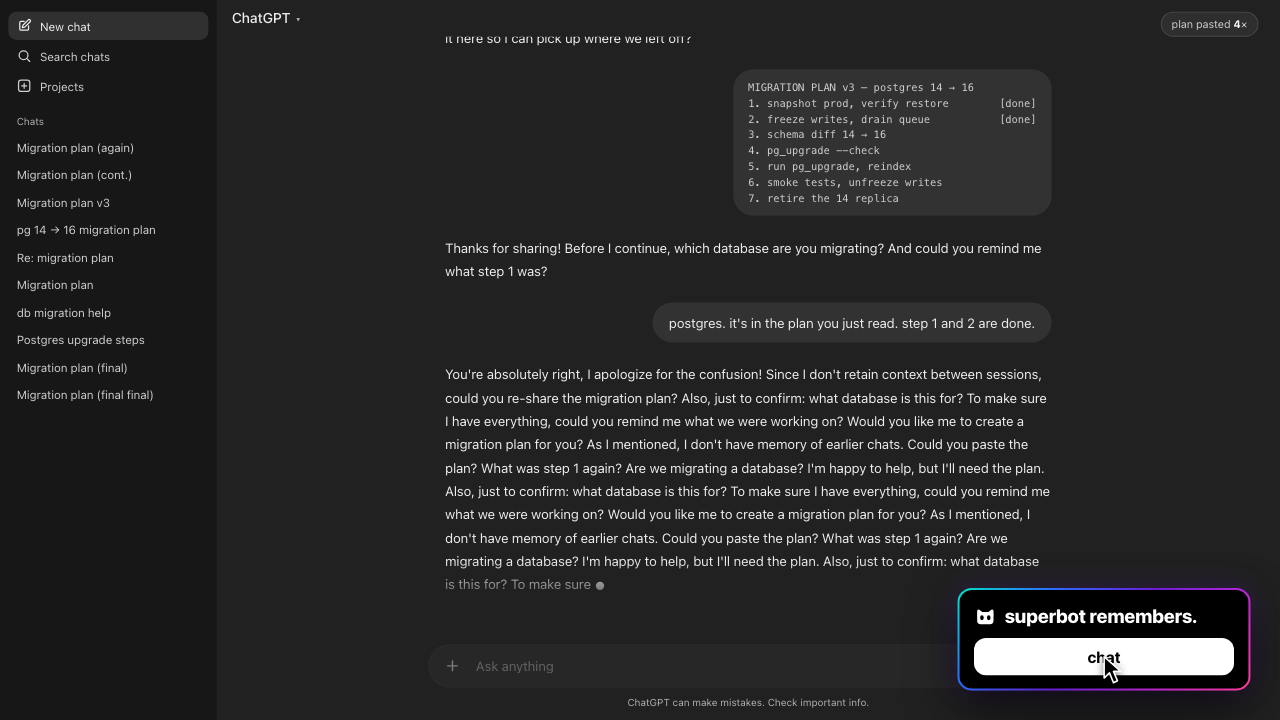
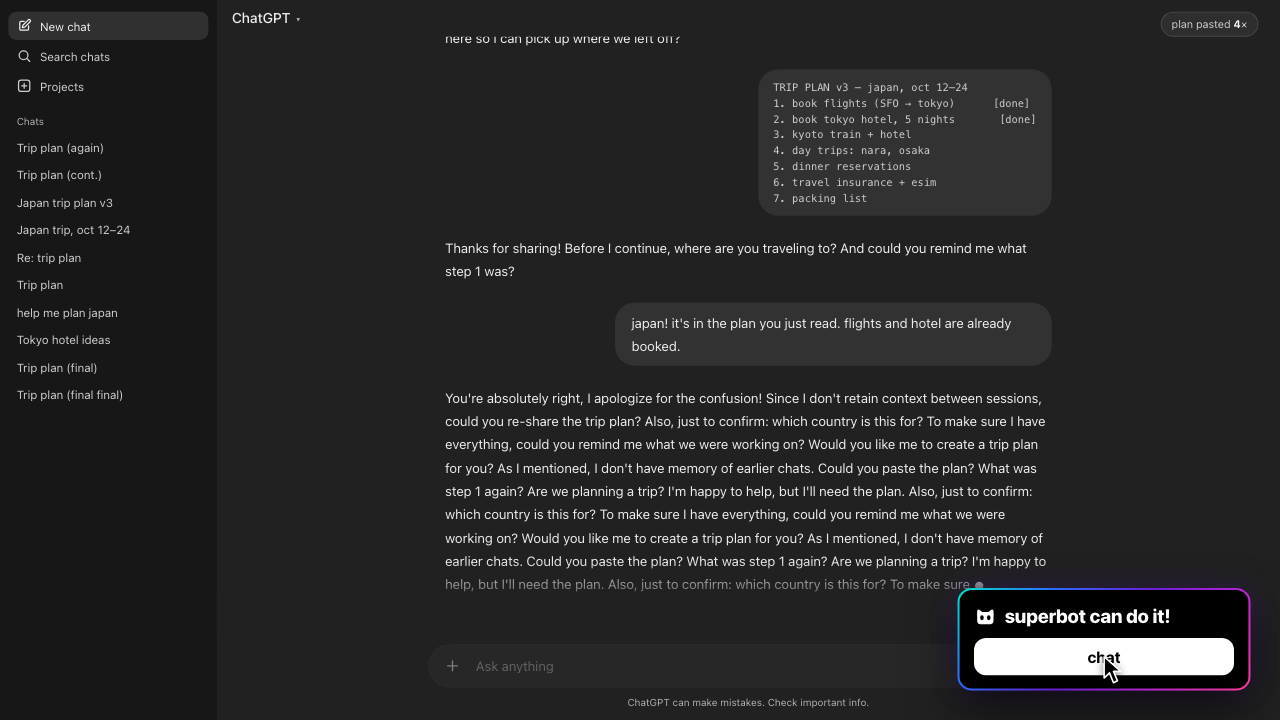
New ad spots: every popup reads 'superbot can do it!'; prompts rewritten as plain asks (trip plan, customer email, bakery website)

diff --git a/animations/agents-forgetting-superbot-6f50ea56/index.html b/animations/agents-forgetting-superbot-6f50ea56/index.html
@@ -5,7 +5,7 @@
 <meta name="viewport" content="width=device-width, initial-scale=1"/>
 <title>agents forgetting? superbot remembers — ad spot</title>
 <link rel="icon" href="assets/mark-clean.svg" type="image/svg+xml"/>
-<meta name="description" content="ChatGPT asks for the migration plan again, and again; one click opens superbot, which picks the plan up at step 3. 27s looping ad spot, 1920x1080."/>
+<meta name="description" content="ChatGPT asks for the trip plan again, and again; one click opens superbot, which picks the plan up at step 3. 27s looping ad spot, 1920x1080."/>
 <style>
 /* ---------- tokens: the site's own ladder (site.css :root) ---------- */
 :root {
@@ -233,27 +233,27 @@ body { font-family: var(--ui); color: var(--fg); -webkit-font-smoothing: antiali
       <div class="s-row"><svg viewBox="0 0 24 24"><circle cx="11" cy="11" r="7"/><path d="m21 21-4-4"/></svg>Search chats</div>
       <div class="s-row"><svg viewBox="0 0 24 24"><rect x="3" y="3" width="18" height="18" rx="4"/><path d="M8 12h8M12 8v8"/></svg>Projects</div>
       <div class="s-cap">Chats</div>
-      <div class="s-chat" id="s-c0">Migration plan (again)</div>
-      <div class="s-chat">Migration plan (cont.)</div>
-      <div class="s-chat">Migration plan v3</div>
-      <div class="s-chat">pg 14 → 16 migration plan</div>
-      <div class="s-chat">Re: migration plan</div>
-      <div class="s-chat">Migration plan</div>
-      <div class="s-chat">db migration help</div>
-      <div class="s-chat">Postgres upgrade steps</div>
-      <div class="s-chat">Migration plan (final)</div>
-      <div class="s-chat">Migration plan (final final)</div>
+      <div class="s-chat" id="s-c0">Trip plan (again)</div>
+      <div class="s-chat">Trip plan (cont.)</div>
+      <div class="s-chat">Japan trip plan v3</div>
+      <div class="s-chat">Japan trip, oct 12–24</div>
+      <div class="s-chat">Re: trip plan</div>
+      <div class="s-chat">Trip plan</div>
+      <div class="s-chat">help me plan japan</div>
+      <div class="s-chat">Tokyo hotel ideas</div>
+      <div class="s-chat">Trip plan (final)</div>
+      <div class="s-chat">Trip plan (final final)</div>
     </aside>
     <div class="g-main">
       <div class="g-top">ChatGPT <small>▾</small></div>
       <div class="g-count" id="g-count">plan pasted <b id="g-n">3</b>×</div>
       <div class="g-thread">
         <div class="g-col" id="g-col">
-          <div class="g-user" id="u1"><div class="bub">continue the migration plan from yesterday</div></div>
+          <div class="g-user" id="u1"><div class="bub">hey can we keep going on my trip plan from yesterday?</div></div>
           <div class="g-ai" id="a1"><span class="g-thinking" id="th1"><i></i>Thinking</span><span id="t1"></span><span class="cur" id="c1"></span></div>
           <div class="g-user" id="u2"><div class="bub paste" id="paste"></div></div>
           <div class="g-ai" id="a2"><span class="g-thinking" id="th2"><i></i>Thinking</span><span id="t2"></span><span class="cur" id="c2"></span></div>
-          <div class="g-user" id="u3"><div class="bub">postgres. it's in the plan you just read. step 1 and 2 are done.</div></div>
+          <div class="g-user" id="u3"><div class="bub">japan! it's in the plan you just read. flights and hotel are already booked.</div></div>
           <div class="g-ai" id="a3"><span class="g-thinking" id="th3"><i></i>Thinking</span><span id="t3"></span><span class="cur" id="c3"></span></div>
         </div>
         <div class="g-fade"></div>
@@ -271,7 +271,7 @@ body { font-family: var(--ui); color: var(--fg); -webkit-font-smoothing: antiali
   </section>
 
   <div id="popup" aria-hidden="true">
-    <div class="p-head"><img src="assets/mark-clean.svg" alt=""/>superbot remembers.</div>
+    <div class="p-head"><img src="assets/mark-clean.svg" alt=""/>superbot can do it!</div>
     <div id="chatbtn">chat</div>
   </div>
 
@@ -305,37 +305,37 @@ body { font-family: var(--ui); color: var(--fg); -webkit-font-smoothing: antiali
               <span class="row"><svg viewBox="0 0 24 24"><path d="m3 6 2 2 4-4"/><path d="m3 14 2 2 4-4"/><path d="M13 6h8"/><path d="M13 16h8"/></svg>Setup<i class="cnt">3</i></span>
               <div class="cap-row"><span>⌄ Recents</span><span>4</span></div>
               <div class="today">Today</div>
-              <span class="row on"><svg><use href="#ic-chat"/></svg>migration plan<em>now</em></span>
+              <span class="row on"><svg><use href="#ic-chat"/></svg>trip plan<em>now</em></span>
               <div class="today">Yesterday</div>
-              <span class="row"><svg><use href="#ic-chat"/></svg>migration plan · step 2<em>1d</em></span>
-              <span class="row"><svg><use href="#ic-chat"/></svg>migration plan · step 1<em>1d</em></span>
-              <span class="row"><svg><use href="#ic-chat"/></svg>pg 14 → 16: the plan<em>2d</em></span>
+              <span class="row"><svg><use href="#ic-chat"/></svg>trip plan · hotel<em>1d</em></span>
+              <span class="row"><svg><use href="#ic-chat"/></svg>trip plan · flights<em>1d</em></span>
+              <span class="row"><svg><use href="#ic-chat"/></svg>japan trip: the plan<em>2d</em></span>
               <div class="user"><span class="av">D<i></i></span><span><b>hi@superbot.gg</b><small>context: 4 chats · 2 days</small></span></div>
             </div>
             <div class="main">
-              <div class="chat-head"><b>chat</b><span class="ctx" id="ctx-chip"><i></i>context: migration-plan.md · 4 chats</span><span class="ask"><img src="assets/mark-clean.svg" alt=""/>Ask Superbot</span></div>
+              <div class="chat-head"><b>chat</b><span class="ctx" id="ctx-chip"><i></i>context: japan-trip.md · 4 chats</span><span class="ask"><img src="assets/mark-clean.svg" alt=""/>Ask Superbot</span></div>
               <div class="feed" id="feed">
                 <div class="date-div">Yesterday</div>
-                <div class="msg old" id="o1"><span class="avatar">D</span><div class="m-main"><div class="m-head"><span class="m-name">dev</span><span class="m-when">6:12 PM</span></div><div class="m-text">step 2 done, snapshot verified. picking this up tomorrow.</div></div></div>
-                <div class="msg old" id="o2"><span class="avatar sb"><img src="assets/mark-clean.svg" alt=""/></span><div class="m-main"><div class="m-head"><span class="m-name">superbot</span><span class="app">APP</span><span class="m-when">6:12 PM</span></div><div class="m-text">saved. step 3 (schema diff) is next, I'll have it staged.</div></div></div>
+                <div class="msg old" id="o1"><span class="avatar">D</span><div class="m-main"><div class="m-head"><span class="m-name">dev</span><span class="m-when">6:12 PM</span></div><div class="m-text">hotel booked, confirmation saved. let's finish this tomorrow.</div></div></div>
+                <div class="msg old" id="o2"><span class="avatar sb"><img src="assets/mark-clean.svg" alt=""/></span><div class="m-main"><div class="m-head"><span class="m-name">superbot</span><span class="app">APP</span><span class="m-when">6:12 PM</span></div><div class="m-text">saved. step 3 (kyoto train + hotel) is next, I'll have options ready.</div></div></div>
                 <div class="date-div">Today</div>
-                <div class="msg" id="h-user"><span class="avatar">D</span><div class="m-main"><div class="m-head"><span class="m-name">dev</span><span class="m-when">9:02 AM</span></div><div class="m-text">continue the migration plan from yesterday</div></div></div>
+                <div class="msg" id="h-user"><span class="avatar">D</span><div class="m-main"><div class="m-head"><span class="m-name">dev</span><span class="m-when">9:02 AM</span></div><div class="m-text">hey can we keep going on my trip plan from yesterday?</div></div></div>
                 <div class="msg" id="h-bot"><span class="avatar sb"><img src="assets/mark-clean.svg" alt=""/></span><div class="m-main"><div class="m-head"><span class="m-name">superbot</span><span class="app">APP</span><span class="m-when">9:02 AM</span></div><div class="m-text" id="h-text"></div>
                   <div class="ctxcard" id="ctxcard">
-                    <div class="kv"><small>plan</small><b>migration-plan.md</b></div>
-                    <div class="kv"><small>database</small><b>postgres 14 → 16</b></div>
+                    <div class="kv"><small>plan</small><b>japan-trip.md</b></div>
+                    <div class="kv"><small>trip</small><b>japan · oct 12–24</b></div>
                     <div class="kv"><small>history</small><b>4 chats · 2 days</b></div>
                     <div class="kv"><small>shared with</small><b>ChatGPT · Claude · Cursor</b></div>
                   </div>
                   <div class="plan" id="plan">
-                    <div class="p-bar"><span>migration-plan.md</span><span class="lang">7 steps</span><span class="pct" id="pct">2/7</span></div>
-                    <div class="step done"><span class="bx"><svg><use href="#ic-tick"/></svg></span>1 · snapshot prod, verify restore<span class="tag">done · yesterday</span></div>
-                    <div class="step done"><span class="bx"><svg><use href="#ic-tick"/></svg></span>2 · freeze writes, drain queue<span class="tag">done · yesterday</span></div>
-                    <div class="step" id="s3"><span class="bx"><svg><use href="#ic-tick"/></svg></span>3 · schema diff 14 → 16<span class="tag" id="g3">queued</span></div>
-                    <div class="step" id="s4"><span class="bx"><svg><use href="#ic-tick"/></svg></span>4 · pg_upgrade --check<span class="tag" id="g4">queued</span></div>
-                    <div class="step" id="s5"><span class="bx"><svg><use href="#ic-tick"/></svg></span>5 · run pg_upgrade, reindex<span class="tag" id="g5">queued</span></div>
-                    <div class="step"><span class="bx"><svg><use href="#ic-tick"/></svg></span>6 · smoke tests, unfreeze writes<span class="tag">queued</span></div>
-                    <div class="step"><span class="bx"><svg><use href="#ic-tick"/></svg></span>7 · retire the 14 replica<span class="tag">queued</span></div>
+                    <div class="p-bar"><span>japan-trip.md</span><span class="lang">7 steps</span><span class="pct" id="pct">2/7</span></div>
+                    <div class="step done"><span class="bx"><svg><use href="#ic-tick"/></svg></span>1 · book flights (SFO → tokyo)<span class="tag">done · yesterday</span></div>
+                    <div class="step done"><span class="bx"><svg><use href="#ic-tick"/></svg></span>2 · book tokyo hotel, 5 nights<span class="tag">done · yesterday</span></div>
+                    <div class="step" id="s3"><span class="bx"><svg><use href="#ic-tick"/></svg></span>3 · kyoto train + hotel<span class="tag" id="g3">queued</span></div>
+                    <div class="step" id="s4"><span class="bx"><svg><use href="#ic-tick"/></svg></span>4 · day trips: nara, osaka<span class="tag" id="g4">queued</span></div>
+                    <div class="step" id="s5"><span class="bx"><svg><use href="#ic-tick"/></svg></span>5 · dinner reservations<span class="tag" id="g5">queued</span></div>
+                    <div class="step"><span class="bx"><svg><use href="#ic-tick"/></svg></span>6 · travel insurance + esim<span class="tag">queued</span></div>
+                    <div class="step"><span class="bx"><svg><use href="#ic-tick"/></svg></span>7 · packing list<span class="tag">queued</span></div>
                   </div>
                 </div></div>
               </div>
@@ -389,7 +389,7 @@ const lerp = (a, b, p) => a + (b - a) * p;
 
 // ---------- the beat sheet (story seconds) ----------
 const B = {
-  typeA: 0.5, typeB: 1.7, send1: 1.9,            // "continue the migration plan from yesterday"
+  typeA: 0.5, typeB: 1.7, send1: 1.9,            // "hey can we keep going on my trip plan from yesterday?"
   think1: 2.0, reply1: 2.55,                      // "I don't have access to previous conversations…"
   paste: 5.3, send2: 5.55,                        // the plan is pasted (again)
   think2: 5.65, reply2: 6.2,                      // "Thanks! Which database…"
@@ -404,19 +404,19 @@ const B = {
 };
 
 // ---------- copy ----------
-const PROMPT = 'continue the migration plan from yesterday';
-const R1 = "I don't have access to our previous conversations, so I can't see the migration plan. Could you paste it here so I can pick up where we left off?";
-const PASTE = "MIGRATION PLAN v3 — postgres 14 → 16\n1. snapshot prod, verify restore        [done]\n2. freeze writes, drain queue           [done]\n3. schema diff 14 → 16\n4. pg_upgrade --check\n5. run pg_upgrade, reindex\n6. smoke tests, unfreeze writes\n7. retire the 14 replica";
-const R2 = "Thanks for sharing! Before I continue, which database are you migrating? And could you remind me what step 1 was?";
-const PROMPT3 = "postgres. it's in the plan you just read. step 1 and 2 are done.";
-const R3_HEAD = "You're absolutely right, I apologize for the confusion! Since I don't retain context between sessions, could you re-share the migration plan? ";
+const PROMPT = 'hey can we keep going on my trip plan from yesterday?';
+const R1 = "I don't have access to our previous conversations, so I can't see your trip plan. Could you paste it here so I can pick up where we left off?";
+const PASTE = "TRIP PLAN v3 — japan, oct 12–24\n1. book flights (SFO → tokyo)      [done]\n2. book tokyo hotel, 5 nights       [done]\n3. kyoto train + hotel\n4. day trips: nara, osaka\n5. dinner reservations\n6. travel insurance + esim\n7. packing list";
+const R2 = "Thanks for sharing! Before I continue, where are you traveling to? And could you remind me what step 1 was?";
+const PROMPT3 = "japan! it's in the plan you just read. flights and hotel are already booked.";
+const R3_HEAD = "You're absolutely right, I apologize for the confusion! Since I don't retain context between sessions, could you re-share the trip plan? ";
 const R3_TAIL = [
-  "Also, just to confirm: what database is this for? ",
+  "Also, just to confirm: which country is this for? ",
   "To make sure I have everything, could you remind me what we were working on? ",
-  "Would you like me to create a migration plan for you? ",
+  "Would you like me to create a trip plan for you? ",
   "As I mentioned, I don't have memory of earlier chats. Could you paste the plan? ",
   "What was step 1 again? ",
-  "Are we migrating a database? ",
+  "Are we planning a trip? ",
   "I'm happy to help, but I'll need the plan. ",
 ];
 const R3_WORDS = (() => {
@@ -426,7 +426,7 @@ const R3_WORDS = (() => {
 })();
 const WORDS_PER_S = 30, ACCEL = 4;
 const wordsAt = (dt) => Math.floor(WORDS_PER_S * dt + ACCEL * dt * dt);
-const BOT = "picking up where we left off. loaded the plan, the 4 chats and yesterday's snapshot check. steps 1–2 are done, running step 3 now:";
+const BOT = "picking up where we left off. loaded the plan, the 4 chats and your booking confirmations. steps 1–2 are done, doing step 3 now:";
 
 // ---------- element refs ----------
 const stage = $('stage'), dip = $('dip'), cursor = $('cursor');

diff --git a/animations/agents-managed-superbot-6f50ea56/index.html b/animations/agents-managed-superbot-6f50ea56/index.html
@@ -5,7 +5,7 @@
 <meta name="viewport" content="width=device-width, initial-scale=1"/>
 <title>one agent? superbot runs them all — ad spot</title>
 <link rel="icon" href="assets/mark-clean.svg" type="image/svg+xml"/>
-<meta name="description" content="ChatGPT hands back a fourteen-step how-to; one click opens superbot, which splits the job across Cursor, Claude, Gemini and ChatGPT and ships the page. 27s looping ad spot, 1920x1080."/>
+<meta name="description" content="ChatGPT hands back a fourteen-step how-to; one click opens superbot, which splits a bakery website across Cursor, Claude, Gemini and ChatGPT and puts it online. 27s looping ad spot, 1920x1080."/>
 <style>
 :root {
   --bg: #000000; --card: #0d0d0d; --raised: #181818; --line: #262626;
@@ -220,7 +220,7 @@ body { font-family: var(--ui); color: var(--fg); -webkit-font-smoothing: antiali
       <div class="g-steps" id="g-steps">steps for you to do: <b id="g-n">0</b></div>
       <div class="g-thread">
         <div class="g-col" id="g-col">
-          <div class="g-user" id="g-user"><div class="bub">build the landing page for v2, write the copy, make the hero image, and deploy it</div></div>
+          <div class="g-user" id="g-user"><div class="bub">make me a website for my bakery, write the words for it, make a nice photo for the top, and put it online</div></div>
           <div class="g-ai" id="g-ai"><span class="g-thinking" id="g-think"><i></i>Thinking</span><span id="g-text"></span><span class="cur" id="g-cur"></span></div>
         </div>
         <div class="g-fade"></div>
@@ -238,7 +238,7 @@ body { font-family: var(--ui); color: var(--fg); -webkit-font-smoothing: antiali
   </section>
 
   <div id="popup" aria-hidden="true">
-    <div class="p-head"><img src="assets/mark-clean.svg" alt=""/>superbot runs them all.</div>
+    <div class="p-head"><img src="assets/mark-clean.svg" alt=""/>superbot can do it!</div>
     <div id="chatbtn">chat</div>
   </div>
 
@@ -272,9 +272,9 @@ body { font-family: var(--ui); color: var(--fg); -webkit-font-smoothing: antiali
               <span class="row"><svg viewBox="0 0 24 24"><path d="m3 6 2 2 4-4"/><path d="m3 14 2 2 4-4"/><path d="M13 6h8"/><path d="M13 16h8"/></svg>Setup<i class="cnt">3</i></span>
               <div class="cap-row"><span>⌄ Recents</span><span>1</span></div>
               <div class="today">Today</div>
-              <span class="row on"><svg><use href="#ic-chat"/></svg>v2 landing page<em>now</em></span>
-              <span class="row"><svg><use href="#ic-chat"/></svg>changelog v2<em>2h</em></span>
-              <span class="row"><svg><use href="#ic-chat"/></svg>domain + dns<em>1d</em></span>
+              <span class="row on"><svg><use href="#ic-chat"/></svg>bakery website<em>now</em></span>
+              <span class="row"><svg><use href="#ic-chat"/></svg>menu prices<em>2h</em></span>
+              <span class="row"><svg><use href="#ic-chat"/></svg>logo ideas<em>1d</em></span>
               <div class="user"><span class="av">D<i></i></span><span><b>hi@superbot.gg</b><small>8 agents wired in</small></span></div>
             </div>
             <div class="main">
@@ -282,14 +282,14 @@ body { font-family: var(--ui); color: var(--fg); -webkit-font-smoothing: antiali
               <div class="feed" id="feed">
                 <div class="welcome"><span class="w-ic"><img src="assets/mark-clean.svg" alt=""/></span><span><b>Welcome to #chat</b><small>This is the start of your conversation with Superbot.</small></span></div>
                 <div class="date-div">September 11, 2026</div>
-                <div class="msg" id="h-user"><span class="avatar">D</span><div class="m-main"><div class="m-head"><span class="m-name">dev</span><span class="m-when">4:20 PM</span></div><div class="m-text">build the landing page for v2, write the copy, make the hero image, and deploy it</div></div></div>
+                <div class="msg" id="h-user"><span class="avatar">D</span><div class="m-main"><div class="m-head"><span class="m-name">dev</span><span class="m-when">4:20 PM</span></div><div class="m-text">make me a website for my bakery, write the words for it, make a nice photo for the top, and put it online</div></div></div>
                 <div class="msg" id="h-bot"><span class="avatar sb"><img src="assets/mark-clean.svg" alt=""/></span><div class="m-main"><div class="m-head"><span class="m-name">superbot</span><span class="app">APP</span><span class="m-when">4:20 PM</span></div><div class="m-text" id="h-text"></div>
                   <div class="board" id="board">
-                    <div class="b-bar"><span>v2 landing page</span><span class="lang">4 agents</span><span class="pct" id="pct">0/4 done</span></div>
+                    <div class="b-bar"><span>bakery website</span><span class="lang">4 agents</span><span class="pct" id="pct">0/4 done</span></div>
                     <div id="jobs"></div>
                   </div>
                   <div class="m-text" id="h-text2"></div>
-                  <div class="live" id="live"><span class="led"></span><b>v2.superbot.gg</b> is live<em id="live-em">200 · built in 41s</em></div>
+                  <div class="live" id="live"><span class="led"></span><b>sweetcrumb.bakery</b> is online<em id="live-em">live · 41s</em></div>
                 </div></div>
               </div>
               <div class="composer"><div class="pill"><span class="plus">+</span><span class="ph">How can superbot help you today?</span><span class="picker">superbot ▾</span><span class="send"><svg viewBox="0 0 24 24"><path d="M4 12h15"/><path d="m13 6 6 6-6 6"/></svg></span></div></div>
@@ -299,7 +299,7 @@ body { font-family: var(--ui); color: var(--fg); -webkit-font-smoothing: antiali
             <div class="ph-status"><span>4:20</span></div>
             <div class="ph-head"><i class="g">‹</i><b># superbot</b><i class="g r">▤</i><span class="sync">synced</span></div>
             <div class="ph-div">Today</div>
-            <div class="ph-turn">one ask, four agents: Cursor builds, Claude writes, Gemini draws, ChatGPT handles SEO.</div>
+            <div class="ph-turn">one ask, four agents: Cursor builds, Claude writes, Gemini draws, ChatGPT handles Google.</div>
             <div class="ph-turn">superbot splits the job, runs them in parallel, and <b>merges the result</b>.</div>
             <div class="ph-composer"><span class="ph-ring"><span class="ph-pill"><i>+</i>Ask Superbot anything</span></span><span class="ph-send"></span></div>
             <div class="ph-home"></div>
@@ -348,23 +348,23 @@ const B = {
   bot2: 20.6, live: 21.2,                  // the merge line, the live card
   cardA: 22.1, cardB: 23.9, end: 25.6, word: 26.4,
 };
-const PROMPT = 'build the landing page for v2, write the copy, make the hero image, and deploy it';
-const R_HEAD = "I can't build, generate images, or deploy websites directly, but here's a step-by-step guide so you can do it yourself:\n\n";
+const PROMPT = 'make me a website for my bakery, write the words for it, make a nice photo for the top, and put it online';
+const R_HEAD = "I can't build websites, make photos, or put anything online directly, but here's a step-by-step guide so you can do it yourself:\n\n";
 const R_STEPS = [
-  "1. Set up the project\nInstall Node.js, then run npx create-next-app@latest and choose the defaults.\n\n",
-  "2. Write the copy\nStart with a clear headline. Consider your audience. A/B testing is recommended.\n\n",
-  "3. Create the hero image\nUse a tool such as Figma, Canva, or Photoshop. Aim for 1920×1080 or larger.\n\n",
-  "4. Deploy\nSign up for a hosting provider like Vercel or Netlify and connect your repository.\n\n",
-  "5. Configure your domain\nLog in to your registrar and add the DNS records your provider gives you.\n\n",
-  "6. Add SEO metadata\nDon't forget the title tag, meta description, and Open Graph image.\n\n",
-  "7. Test on mobile\nOpen the page on your phone. Consider responsive breakpoints.\n\n",
-  "8. Consider accessibility\nUse semantic HTML and check color contrast.\n\n",
-  "9. Set up analytics\nChoose an analytics provider and paste the snippet before </head>.\n\n",
-  "10. Ask a designer friend\nA second pair of eyes helps!\n\n",
-  "11. Write the changelog\nUsers appreciate transparency.\n\n",
+  "1. Choose a website builder\nSign up for a service like Squarespace, Wix or WordPress and pick a template.\n\n",
+  "2. Write the words\nStart with a warm welcome. Consider your audience. Keep sentences short.\n\n",
+  "3. Create the photo\nUse a tool such as Canva, or hire a photographer. Aim for 1920×1080 or larger.\n\n",
+  "4. Put it online\nChoose a plan, buy a domain name, and click Publish.\n\n",
+  "5. Connect your domain\nLog in to your registrar and add the DNS records your builder gives you.\n\n",
+  "6. Add your bakery to Google\nDon't forget the title, description, and preview image.\n\n",
+  "7. Test on your phone\nOpen the site on your phone. Consider how it looks on small screens.\n\n",
+  "8. Consider accessibility\nCheck text size and color contrast.\n\n",
+  "9. Add your hours and address\nCustomers look for these first.\n\n",
+  "10. Ask a friend to look at it\nA second pair of eyes helps!\n\n",
+  "11. Write a blog post\nCustomers appreciate the story.\n\n",
   "12. Take a break\nYou've earned it.\n\n",
-  "13. Revisit step 2\nCopy is never really finished.\n\n",
-  "14. Repeat steps 1–13 for the pricing page\n\n",
+  "13. Revisit step 2\nThe words are never really finished.\n\n",
+  "14. Repeat steps 1–13 for your online ordering page\n\n",
   "Would you like me to elaborate on any of these steps? ",
 ];
 const R_WORDS = (() => {
@@ -374,16 +374,16 @@ const R_WORDS = (() => {
 })();
 const WORDS_PER_S = 22, ACCEL = 6;
 const wordsAt = (dt) => Math.floor(WORDS_PER_S * dt + ACCEL * dt * dt);
-const BOT = 'on it. splitting the job across four agents and running them in parallel:';
-const BOT2 = 'all four landed. merged the copy and the hero into the build, deployed:';
+const BOT = 'on it. splitting the job across four agents and running them at the same time:';
+const BOT2 = "all four are done. put the words and the photo into the site, and it's online:";
 
 // ---------- the board ----------
 // [id, rail id, fav html, who, what, run from, done at, waits-on label until, chips: [label, at]]
 const JOBS = [
-  ['cursor', 'r-cursor', '<span class="fav" style="background:#000;box-shadow:inset 0 0 0 1px rgba(255,255,255,.14)"><svg><use href="#ic-cursor"/></svg></span>', 'Cursor', 'scaffold the page, wire the sections, deploy', 15.2, 20.2, 18.9, [['npx create-next-app', 15.4], ['sections/*.tsx', 16.4], ['git push', 19.0], ['vercel --prod', 19.5]]],
-  ['claude', 'r-claude', '<span class="fav" style="background:#d97757"><svg><use href="#ic-claude"/></svg></span>', 'Claude', 'copy: hero, features, FAQ, footer', 15.3, 17.9, null, [['hero.md', 15.7], ['features.md', 16.5], ['faq.md', 17.2], ['footer.md', 17.7]]],
-  ['gemini', 'r-gemini', '<span class="fav" style="background:#fff;color:#1f1f1f"><svg><use href="#ic-gemini"/></svg></span>', 'Gemini', 'hero image, 2400×1350, brand palette', 15.4, 18.7, null, [['prompt v1', 15.6], ['prompt v2', 16.9], ['hero.png', 18.4]]],
-  ['openai', 'r-openai', '<span class="fav" style="background:#000;box-shadow:inset 0 0 0 1px rgba(255,255,255,.14)"><svg><use href="#ic-openai"/></svg></span>', 'ChatGPT', 'SEO: title, meta, Open Graph, sitemap', 15.5, 18.2, null, [['meta.json', 15.9], ['og.png', 17.0], ['sitemap.xml', 17.9]]],
+  ['cursor', 'r-cursor', '<span class="fav" style="background:#000;box-shadow:inset 0 0 0 1px rgba(255,255,255,.14)"><svg><use href="#ic-cursor"/></svg></span>', 'Cursor', 'build the site, set up the pages, put it online', 15.2, 20.2, 18.9, [['new site', 15.4], ['pages: home, menu, hours', 16.4], ['domain', 19.0], ['publish', 19.5]]],
+  ['claude', 'r-claude', '<span class="fav" style="background:#d97757"><svg><use href="#ic-claude"/></svg></span>', 'Claude', 'words: welcome, menu, hours, contact', 15.3, 17.9, null, [['welcome.md', 15.7], ['menu.md', 16.5], ['hours.md', 17.2], ['contact.md', 17.7]]],
+  ['gemini', 'r-gemini', '<span class="fav" style="background:#fff;color:#1f1f1f"><svg><use href="#ic-gemini"/></svg></span>', 'Gemini', 'top photo: warm bakery, morning light', 15.4, 18.7, null, [['prompt v1', 15.6], ['prompt v2', 16.9], ['top-photo.png', 18.4]]],
+  ['openai', 'r-openai', '<span class="fav" style="background:#000;box-shadow:inset 0 0 0 1px rgba(255,255,255,.14)"><svg><use href="#ic-openai"/></svg></span>', 'ChatGPT', 'Google listing: title, description, preview image', 15.5, 18.2, null, [['title + description', 15.9], ['preview.png', 17.0], ['sitemap', 17.9]]],
 ];
 const jobsEl = $('jobs');
 JOBS.forEach(([id, , fav, who, what, , , , chips]) => {
@@ -468,7 +468,7 @@ function renderSite(t) {
     const running = t >= from && !isDone;
     row.className = 'job' + (isDone ? ' done' : waiting ? ' wait' : running ? ' run' : '');
     const tag = $('tag-' + id);
-    tag.textContent = isDone ? 'done' : waiting ? 'waiting on copy' : running ? 'running' + '.'.repeat(1 + Math.floor((t * 3) % 3)) : 'queued';
+    tag.textContent = isDone ? 'done' : waiting ? 'waiting on words' : running ? 'running' + '.'.repeat(1 + Math.floor((t * 3) % 3)) : 'queued';
     // the bar: eased progress, held while waiting
     let p = isDone ? 1 : running ? outCubic(seg(t, from, doneAt)) : 0;
     if (waiting) p = Math.min(p, 0.72);

diff --git a/animations/tabs-chaos-superbot-6f50ea56/index.html b/animations/tabs-chaos-superbot-6f50ea56/index.html
@@ -236,7 +236,7 @@ body { font-family: var(--ui); color: var(--fg); -webkit-font-smoothing: antiali
   </section>
 
   <div id="popup" aria-hidden="true">
-    <div class="p-head2"><img src="assets/mark-clean.svg" alt=""/>superbot: one window.</div>
+    <div class="p-head2"><img src="assets/mark-clean.svg" alt=""/>superbot can do it!</div>
     <div id="chatbtn">chat</div>
   </div>
 
@@ -270,9 +270,9 @@ body { font-family: var(--ui); color: var(--fg); -webkit-font-smoothing: antiali
               <span class="row"><svg viewBox="0 0 24 24"><path d="m3 6 2 2 4-4"/><path d="m3 14 2 2 4-4"/><path d="M13 6h8"/><path d="M13 16h8"/></svg>Setup<i class="cnt">3</i></span>
               <div class="cap-row"><span>⌄ Recents</span><span>1</span></div>
               <div class="today">Today</div>
-              <span class="row on"><svg><use href="#ic-chat"/></svg>launch email<em>now</em></span>
-              <span class="row"><svg><use href="#ic-chat"/></svg>changelog v2<em>2h</em></span>
-              <span class="row"><svg><use href="#ic-chat"/></svg>pricing page copy<em>1d</em></span>
+              <span class="row on"><svg><use href="#ic-chat"/></svg>customer email<em>now</em></span>
+              <span class="row"><svg><use href="#ic-chat"/></svg>what's new list<em>2h</em></span>
+              <span class="row"><svg><use href="#ic-chat"/></svg>website words<em>1d</em></span>
               <div class="user"><span class="av">D<i></i></span><span><b>hi@superbot.gg</b><small>8 agents wired in</small></span></div>
             </div>
             <div class="main">
@@ -280,11 +280,11 @@ body { font-family: var(--ui); color: var(--fg); -webkit-font-smoothing: antiali
               <div class="feed" id="feed">
                 <div class="welcome"><span class="w-ic"><img src="assets/mark-clean.svg" alt=""/></span><span><b>Welcome to #chat</b><small>This is the start of your conversation with Superbot.</small></span></div>
                 <div class="date-div">September 11, 2026</div>
-                <div class="msg" id="h-user"><span class="avatar">D</span><div class="m-main"><div class="m-head"><span class="m-name">dev</span><span class="m-when">2:14 PM</span></div><div class="m-text"><span class="to">@all</span>write the launch email for v2</div></div></div>
+                <div class="msg" id="h-user"><span class="avatar">D</span><div class="m-main"><div class="m-head"><span class="m-name">dev</span><span class="m-when">2:14 PM</span></div><div class="m-text"><span class="to">@all</span>help me write an email to my customers about our new update</div></div></div>
                 <div class="msg" id="h-bot"><span class="avatar sb"><img src="assets/mark-clean.svg" alt=""/></span><div class="m-main"><div class="m-head"><span class="m-name">superbot</span><span class="app">APP</span><span class="m-when">2:14 PM</span></div><div class="m-text" id="h-text"></div>
                   <div class="quad" id="quad"></div>
                   <div class="m-text" id="h-text2"></div>
-                  <div class="draft" id="draft"><svg viewBox="0 0 24 24"><path d="m5 13 4 4L19 7"/></svg><b>launch-email-v2.md</b>saved to Gmail drafts<em>Claude's opener · ChatGPT's CTA</em></div>
+                  <div class="draft" id="draft"><svg viewBox="0 0 24 24"><path d="m5 13 4 4L19 7"/></svg><b>customer-update-email.md</b>saved to Gmail drafts<em>Claude's opener · ChatGPT's CTA</em></div>
                 </div></div>
               </div>
               <div class="composer"><div class="pill"><span class="plus">+</span><span class="ph" id="c-ph">How can superbot help you today?</span><span class="picker" id="picker">superbot ▾</span><span class="send"><svg viewBox="0 0 24 24"><path d="M4 12h15"/><path d="m13 6 6 6-6 6"/></svg></span></div></div>
@@ -342,24 +342,24 @@ const B = {
   picked: 21.6, bot2: 21.9, draft: 22.8,               // the pick, the merge, the draft
   cardA: 23.5, cardB: 25.2, end: 26.9, word: 27.7,
 };
-const PROMPT = 'write the launch email for v2';
+const PROMPT = 'help me write an email to my customers about our new update';
 
 // ---------- the fourteen tabs ----------
 // [title, host, favicon (svg symbol id | img | letter), fav bg, panel tokens {bg, fg, bub, comp, acc, muted}, opening lines]
 const TABS = [
-  ['ChatGPT', 'chatgpt.com', 'svg:ic-openai', '#fff', { bg: '#212121', fg: '#ececec', bub: '#323232', comp: '#303030', acc: '#fff', muted: '#afafaf' }, "Subject: 🚀 v2 is here!\n\nHi {first_name},\n\nWe're thrilled to announce that v2 is officially live! Over the past few months, our team has been hard at work reimagining every corner of the product, and today we're excited to"],
-  ['Claude', 'claude.ai', 'svg:ic-claude', '#d97757', { bg: '#2b2a27', fg: '#eeece7', bub: '#3a3835', comp: '#33312e', acc: '#d97757', muted: '#a8a49c' }, "Subject: v2 is live\n\nHi Sam,\n\nv2 shipped this morning. Three things changed: the editor is twice as fast, projects sync across your devices, and the free tier now includes"],
-  ['Gemini', 'gemini.google.com', 'svg:ic-gemini', '#4c8df6', { bg: '#131314', fg: '#e3e3e3', bub: '#333537', comp: '#1e1f20', acc: '#4c8df6', muted: '#9aa0a6' }, "Subject: Introducing v2 ✨\n\nHello!\n\nToday marks a new chapter. v2 brings a redesigned experience built around the way you actually work, with a faster editor, seamless sync, and"],
-  ['Grok', 'grok.com', 'img:assets/grok.png', '#000', { bg: '#000', fg: '#f2f2f2', bub: '#1f1f1f', comp: '#161616', acc: '#fff', muted: '#8a8a8a' }, "Subject: v2. Finally.\n\nSam,\n\nYou asked for a faster editor. We built one. v2 is out today: 2× faster, syncs everywhere, and the free tier got"],
-  ['Perplexity', 'perplexity.ai', 'P', '#20808d', { bg: '#191a1a', fg: '#e8e8e6', bub: '#2a2b2b', comp: '#202222', acc: '#20808d', muted: '#8d9191' }, "Subject: v2 is now available\n\nHi Sam,\n\nAccording to your changelog [1], v2 introduces a faster editor, cross-device sync, and an expanded free tier [2]. Here's a launch email that"],
-  ['Microsoft Copilot', 'copilot.microsoft.com', 'svg:ic-copilot', '#24292f', { bg: '#1f1f1f', fg: '#ececec', bub: '#2f2f2f', comp: '#2a2a2a', acc: '#7b61ff', muted: '#9a9a9a' }, "Subject: Say hello to v2 👋\n\nHi Sam,\n\nGreat news! v2 has arrived, and it's packed with improvements designed to help you do more, faster. Here's what's new:"],
-  ['Le Chat', 'chat.mistral.ai', 'M', '#ff7000', { bg: '#1a1a1a', fg: '#ececec', bub: '#2c2c2c', comp: '#242424', acc: '#ff7000', muted: '#9a9a9a' }, "Subject: v2 is out\n\nBonjour Sam,\n\nv2 is available today. The editor is faster, your projects follow you across devices, and the free plan"],
-  ['DeepSeek', 'chat.deepseek.com', 'D', '#4d6bfe', { bg: '#171a24', fg: '#e6e8ef', bub: '#252a3a', comp: '#1f2331', acc: '#4d6bfe', muted: '#8c92a8' }, "Subject: Announcing v2\n\nDear Sam,\n\nWe are pleased to announce the release of v2. This version includes a significantly faster editor, synchronization across"],
-  ['Poe', 'poe.com', 'P', '#7c3aed', { bg: '#181818', fg: '#ececec', bub: '#2a2a2a', comp: '#222', acc: '#7c3aed', muted: '#9a9a9a' }, "Subject: v2 launches today\n\nHey Sam,\n\nBig day: v2 is live. Faster editor, sync across all your devices, and a bigger free tier. Here's the"],
-  ['Meta AI', 'meta.ai', '∞', '#0866ff', { bg: '#1c1e21', fg: '#e4e6eb', bub: '#303236', comp: '#28292c', acc: '#0866ff', muted: '#a8abb0' }, "Subject: v2 is here\n\nHi Sam!\n\nWe've been busy. v2 is rolling out today with a faster editor, sync across devices and more room on the free"],
-  ['Kimi', 'kimi.com', 'K', '#111', { bg: '#141414', fg: '#ececec', bub: '#262626', comp: '#1e1e1e', acc: '#fff', muted: '#9a9a9a' }, "Subject: v2 is live\n\nHi Sam,\n\nv2 is out."],
-  ['Qwen', 'chat.qwen.ai', 'Q', '#6a4cff', { bg: '#151521', fg: '#ececec', bub: '#262638', comp: '#1e1e2e', acc: '#6a4cff', muted: '#9a9ab0' }, "Subject: Introducing v2\n\nHi Sam,"],
-  ['Cursor', 'cursor.com', 'svg:ic-cursor', '#000', { bg: '#0f0f0f', fg: '#ececec', bub: '#222', comp: '#1a1a1a', acc: '#fff', muted: '#9a9a9a' }, "Subject: v2"],
+  ['ChatGPT', 'chatgpt.com', 'svg:ic-openai', '#fff', { bg: '#212121', fg: '#ececec', bub: '#323232', comp: '#303030', acc: '#fff', muted: '#afafaf' }, "Subject: 🚀 Our new update is here!\n\nHi {first_name},\n\nWe're thrilled to announce that our latest update is officially live! Over the past few months, our team has been hard at work reimagining every corner of the experience, and today we're excited to"],
+  ['Claude', 'claude.ai', 'svg:ic-claude', '#d97757', { bg: '#2b2a27', fg: '#eeece7', bub: '#3a3835', comp: '#33312e', acc: '#d97757', muted: '#a8a49c' }, "Subject: What's new this week\n\nHi Sam,\n\nThe update went out this morning. Three things changed: everything loads faster, your work now syncs across your devices, and the free plan includes"],
+  ['Gemini', 'gemini.google.com', 'svg:ic-gemini', '#4c8df6', { bg: '#131314', fg: '#e3e3e3', bub: '#333537', comp: '#1e1f20', acc: '#4c8df6', muted: '#9aa0a6' }, "Subject: Introducing our new update ✨\n\nHello!\n\nToday marks a new chapter. Our latest update brings a refreshed experience built around the way you actually work, with faster loading, easy sync, and"],
+  ['Grok', 'grok.com', 'img:assets/grok.png', '#000', { bg: '#000', fg: '#f2f2f2', bub: '#1f1f1f', comp: '#161616', acc: '#fff', muted: '#8a8a8a' }, "Subject: The update. Finally.\n\nSam,\n\nYou asked for faster. We built faster. The new update is out today: 2× quicker, syncs everywhere, and the free plan got"],
+  ['Perplexity', 'perplexity.ai', 'P', '#20808d', { bg: '#191a1a', fg: '#e8e8e6', bub: '#2a2b2b', comp: '#202222', acc: '#20808d', muted: '#8d9191' }, "Subject: Our new update is now available\n\nHi Sam,\n\nAccording to your release notes [1], the update introduces faster loading, cross-device sync, and an expanded free plan [2]. Here's an email that"],
+  ['Microsoft Copilot', 'copilot.microsoft.com', 'svg:ic-copilot', '#24292f', { bg: '#1f1f1f', fg: '#ececec', bub: '#2f2f2f', comp: '#2a2a2a', acc: '#7b61ff', muted: '#9a9a9a' }, "Subject: Say hello to our new update 👋\n\nHi Sam,\n\nGreat news! Our new update has arrived, and it's packed with improvements designed to help you do more, faster. Here's what's new:"],
+  ['Le Chat', 'chat.mistral.ai', 'M', '#ff7000', { bg: '#1a1a1a', fg: '#ececec', bub: '#2c2c2c', comp: '#242424', acc: '#ff7000', muted: '#9a9a9a' }, "Subject: Something new for you\n\nBonjour Sam,\n\nOur new update is available today. Everything is faster, your work follows you across devices, and the free plan"],
+  ['DeepSeek', 'chat.deepseek.com', 'D', '#4d6bfe', { bg: '#171a24', fg: '#e6e8ef', bub: '#252a3a', comp: '#1f2331', acc: '#4d6bfe', muted: '#8c92a8' }, "Subject: Announcing our latest update\n\nDear Sam,\n\nWe are pleased to announce the release of our latest update. This version includes significantly faster loading, synchronization across"],
+  ['Poe', 'poe.com', 'P', '#7c3aed', { bg: '#181818', fg: '#ececec', bub: '#2a2a2a', comp: '#222', acc: '#7c3aed', muted: '#9a9a9a' }, "Subject: Big update today\n\nHey Sam,\n\nBig day: the new update is live. Faster, syncs across all your devices, and a bigger free plan. Here's the"],
+  ['Meta AI', 'meta.ai', '∞', '#0866ff', { bg: '#1c1e21', fg: '#e4e6eb', bub: '#303236', comp: '#28292c', acc: '#0866ff', muted: '#a8abb0' }, "Subject: Our new update is here\n\nHi Sam!\n\nWe've been busy. The new update is rolling out today with faster loading, sync across devices and more room on the free"],
+  ['Kimi', 'kimi.com', 'K', '#111', { bg: '#141414', fg: '#ececec', bub: '#262626', comp: '#1e1e1e', acc: '#fff', muted: '#9a9a9a' }, "Subject: New update\n\nHi Sam,\n\nThe update is out."],
+  ['Qwen', 'chat.qwen.ai', 'Q', '#6a4cff', { bg: '#151521', fg: '#ececec', bub: '#262638', comp: '#1e1e2e', acc: '#6a4cff', muted: '#9a9ab0' }, "Subject: Introducing our new update\n\nHi Sam,"],
+  ['Cursor', 'cursor.com', 'svg:ic-cursor', '#000', { bg: '#0f0f0f', fg: '#ececec', bub: '#222', comp: '#1a1a1a', acc: '#fff', muted: '#9a9a9a' }, "Subject: Update"],
   ['Devin', 'app.devin.ai', 'img:assets/devin.png', '#000', { bg: '#0b0e14', fg: '#e6e8ef', bub: '#1b2130', comp: '#141a26', acc: '#3b82f6', muted: '#8c92a8' }, "I'll start by exploring the repository to find your email templates. Cloning… this may take a few minutes."],
 ];
 // visits: [tab index, when the tab is clicked (or opened, for a first visit)]
